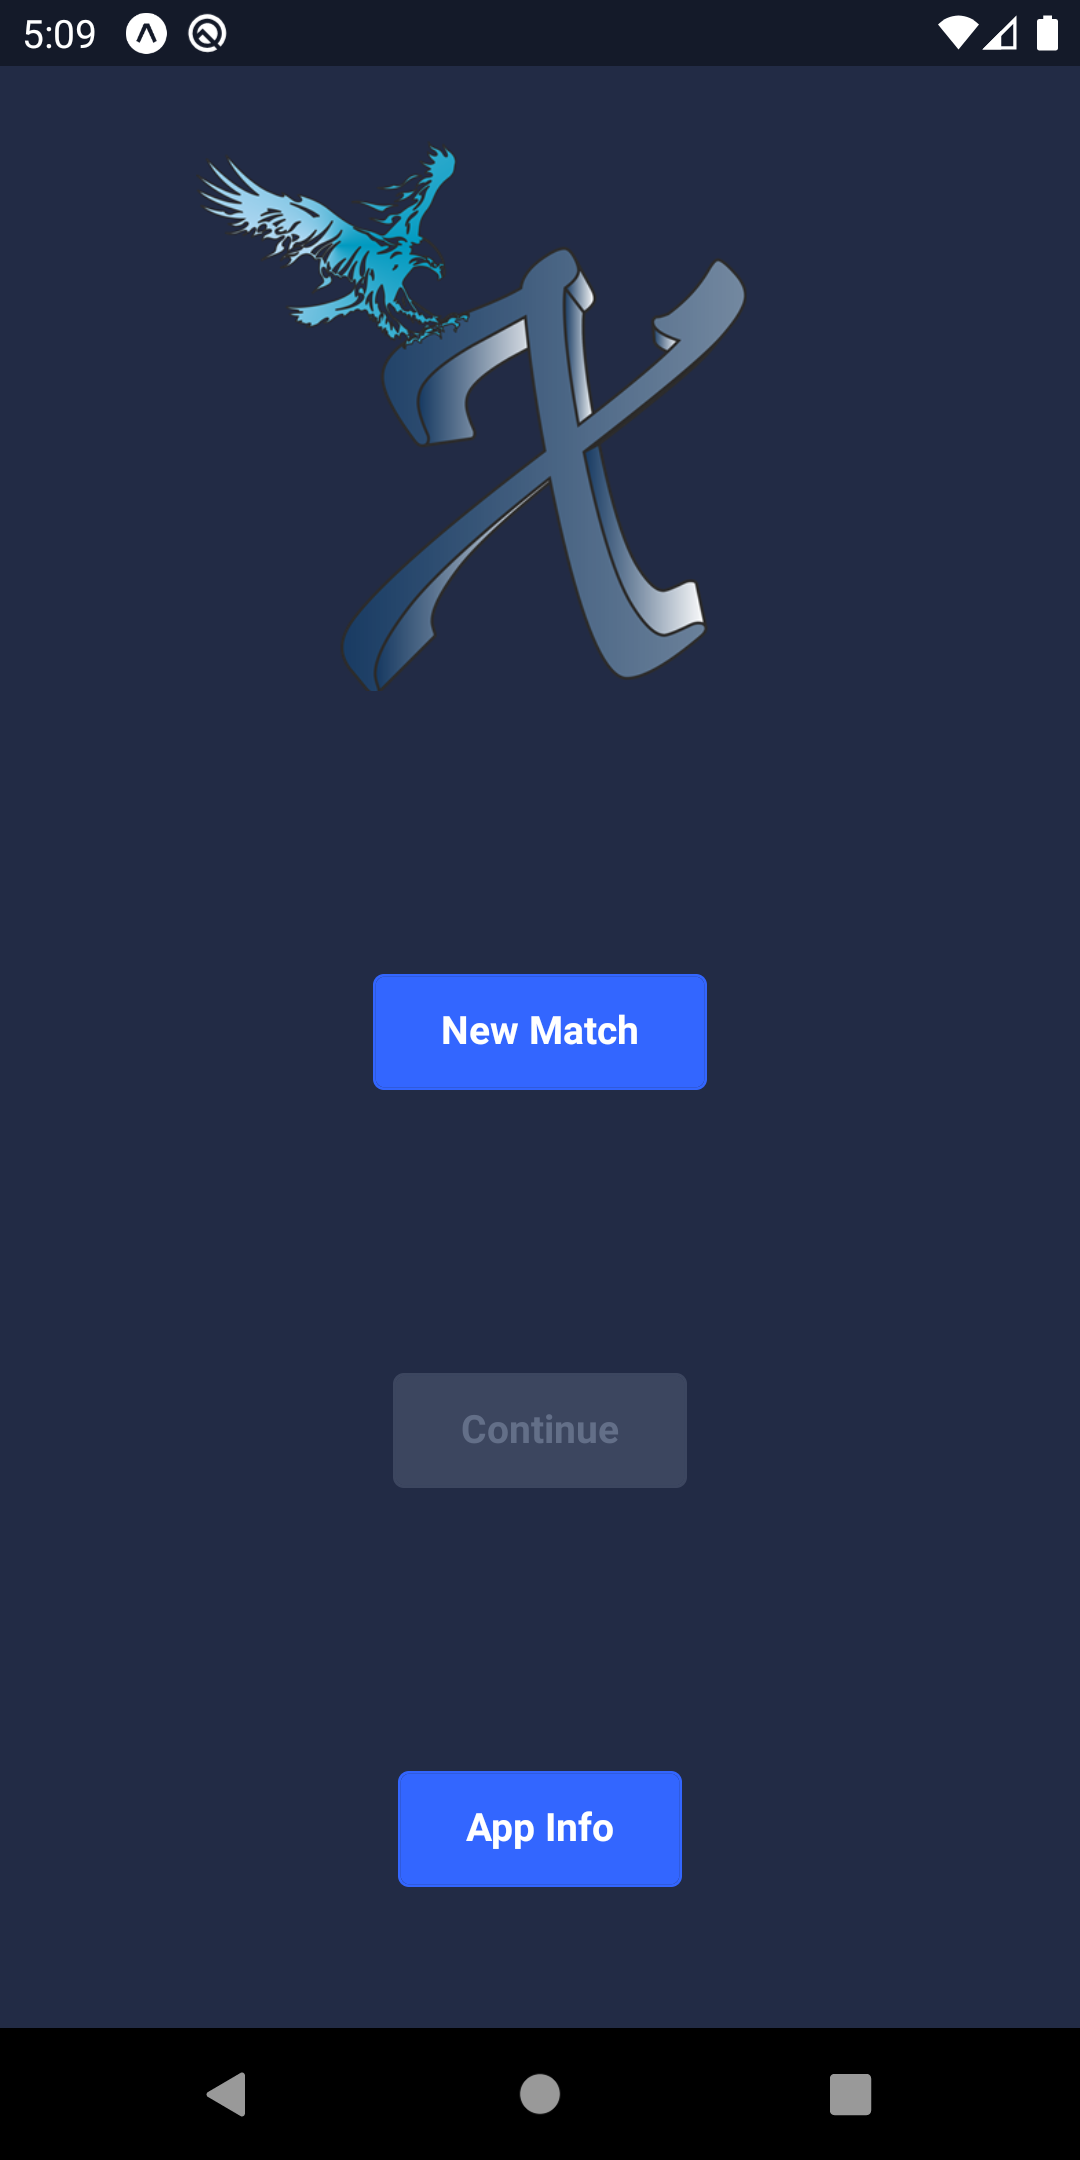
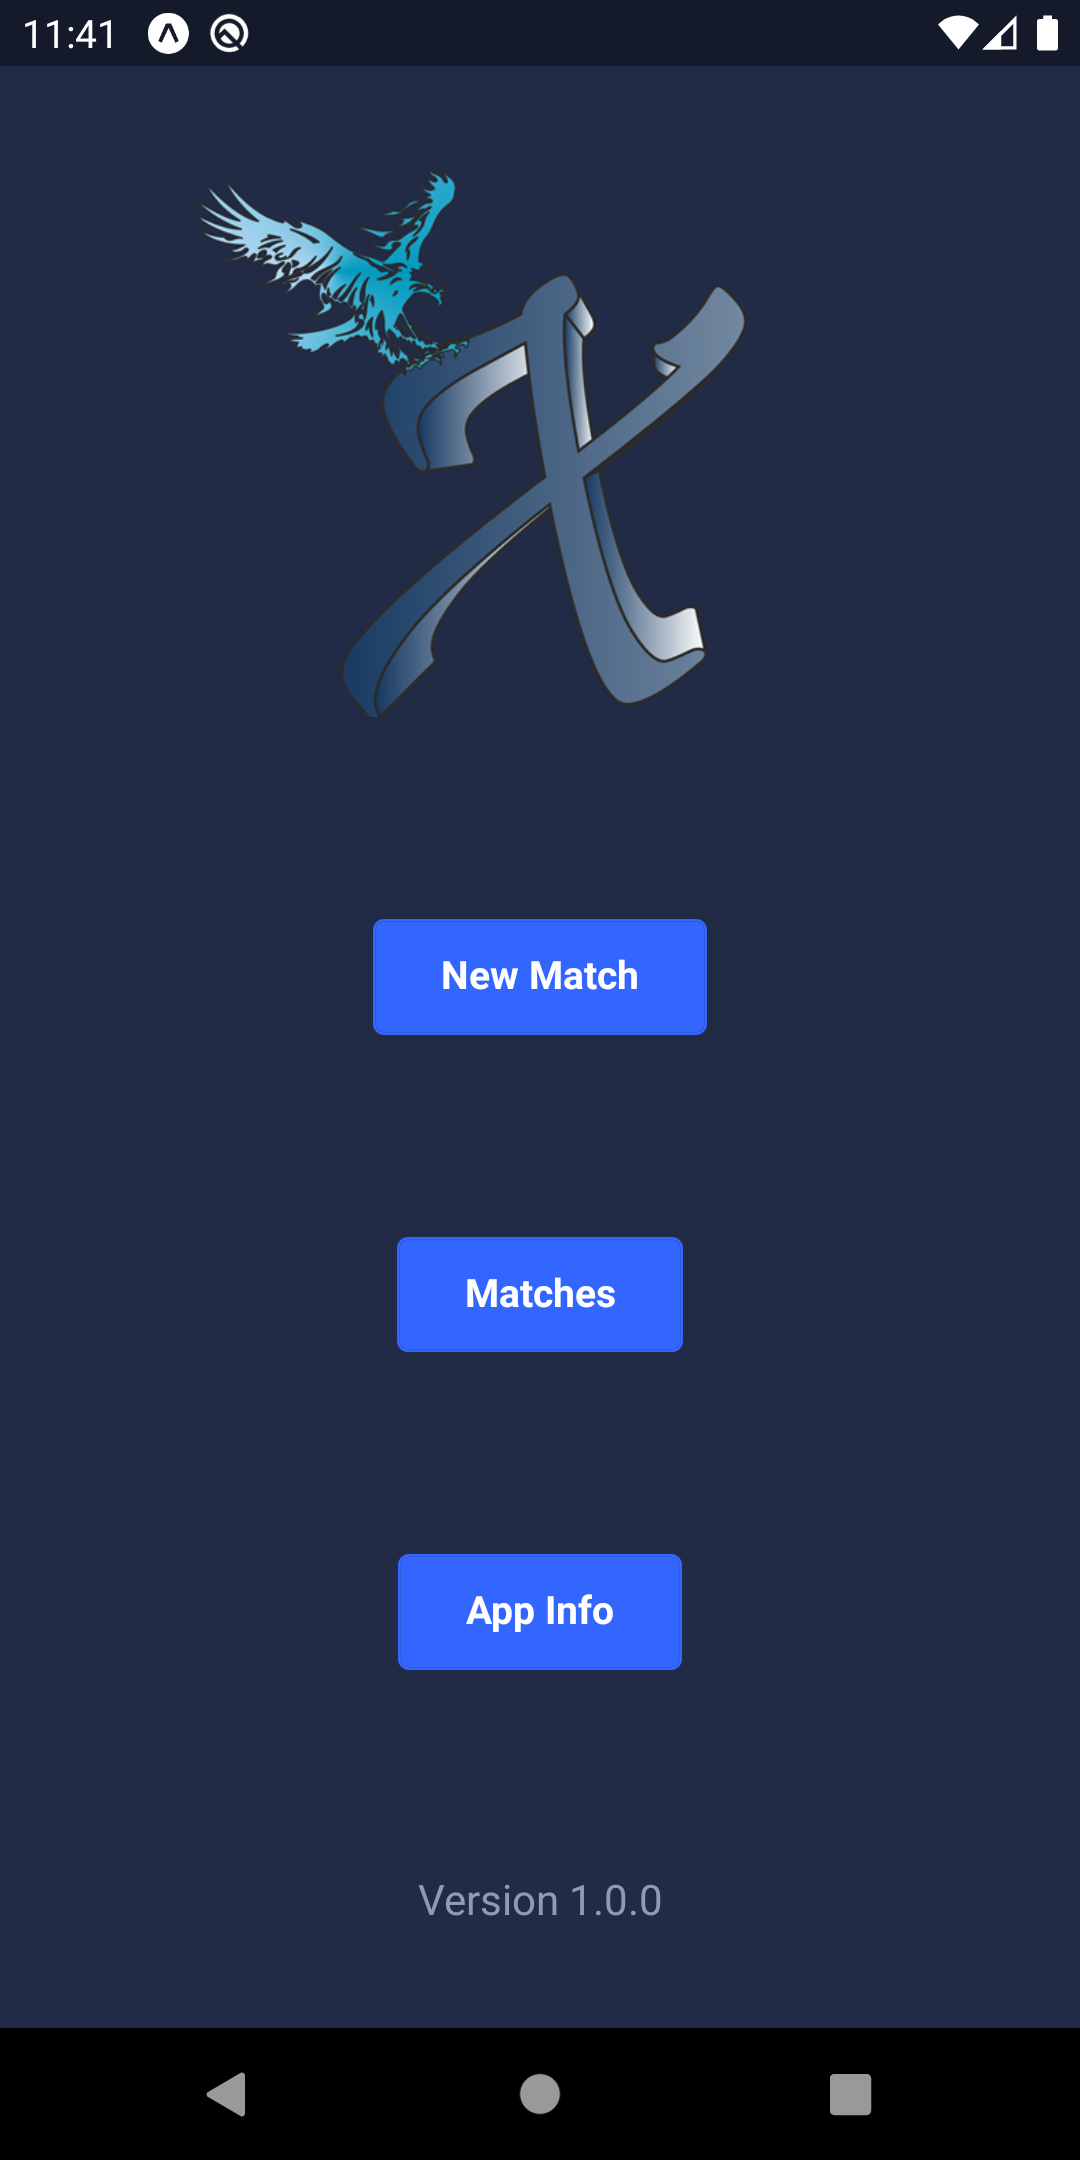
Update screenshots

diff --git a/README.md b/README.md
@@ -24,7 +24,7 @@ Note: a *game* refers to the thing you play in one round while a *match* refers 
 Start a match by entering the list of players (one per line) and the list of games (one per line). Feel free to use Emojis :rocket:
 Player names have to be unique while you can duplicate game names (in separate lines) for the number of times you want to play them. A good game is one that can be played with two teams and a clear winner.
 
-<img src="./screenshots/ios/iphone/NewMatchScreen.png" width="300">
+<img src="./screenshots/ios/iphone/6.5/StartMatchScreen.png" width="300">
 
 ### Procedure
 You play all entries in the game list in a random order exactly once. For each game the active players are assigned to one of two teams randomly. All players from the winning team get points according to the number of the round (1 in the first round, 2 in the second, and so on). The player with the highest sum after the last round is the overall winner.
@@ -32,14 +32,14 @@ You play all entries in the game list in a random order exactly once. For each g
 ### Game View
 In the game view you see the name of the game and the players of each team. After you played the game in real life just press the button for the winning team accordingly.
 
-<img src="./screenshots/ios/iphone/GameScreen1Darts.png" width="300">
+<img src="./screenshots/ios/iphone/6.5/GameScreen1.png" width="300">
 
 ### Leaderboard View
 The leaderboard view is shown before and after every game. It shows the rank of each player together with the sum of their points and their status (active/inactive).
 
 If a player can not play a round you can set them inactive by clicking on them in the leaderboard view. This player will not participate in any games until it is set active again and hence will not receive any points.
 
-<img src="./screenshots/ios/iphone/LeaderboardScreen2b.png" width="300">
+<img src="./screenshots/ios/iphone/6.5/LeaderboardScreenFinal.png" width="300">
 
 ## Design Principles
 
@@ -70,6 +70,13 @@ The app is built using a collection of open source libraries including
  - [UI Kitten 4.0](https://akveo.github.io/react-native-ui-kitten/)
 
 ## Change Log
+
+### 1.0.0 <small>2020-03-14</small>
+ - add unplayed games
+ - add help info
+ - minor bug fixes
+ - remove unnecessary permissions on android
+ - UI improvements
 
 ### 0.5.0
 - add list of played games with winners
